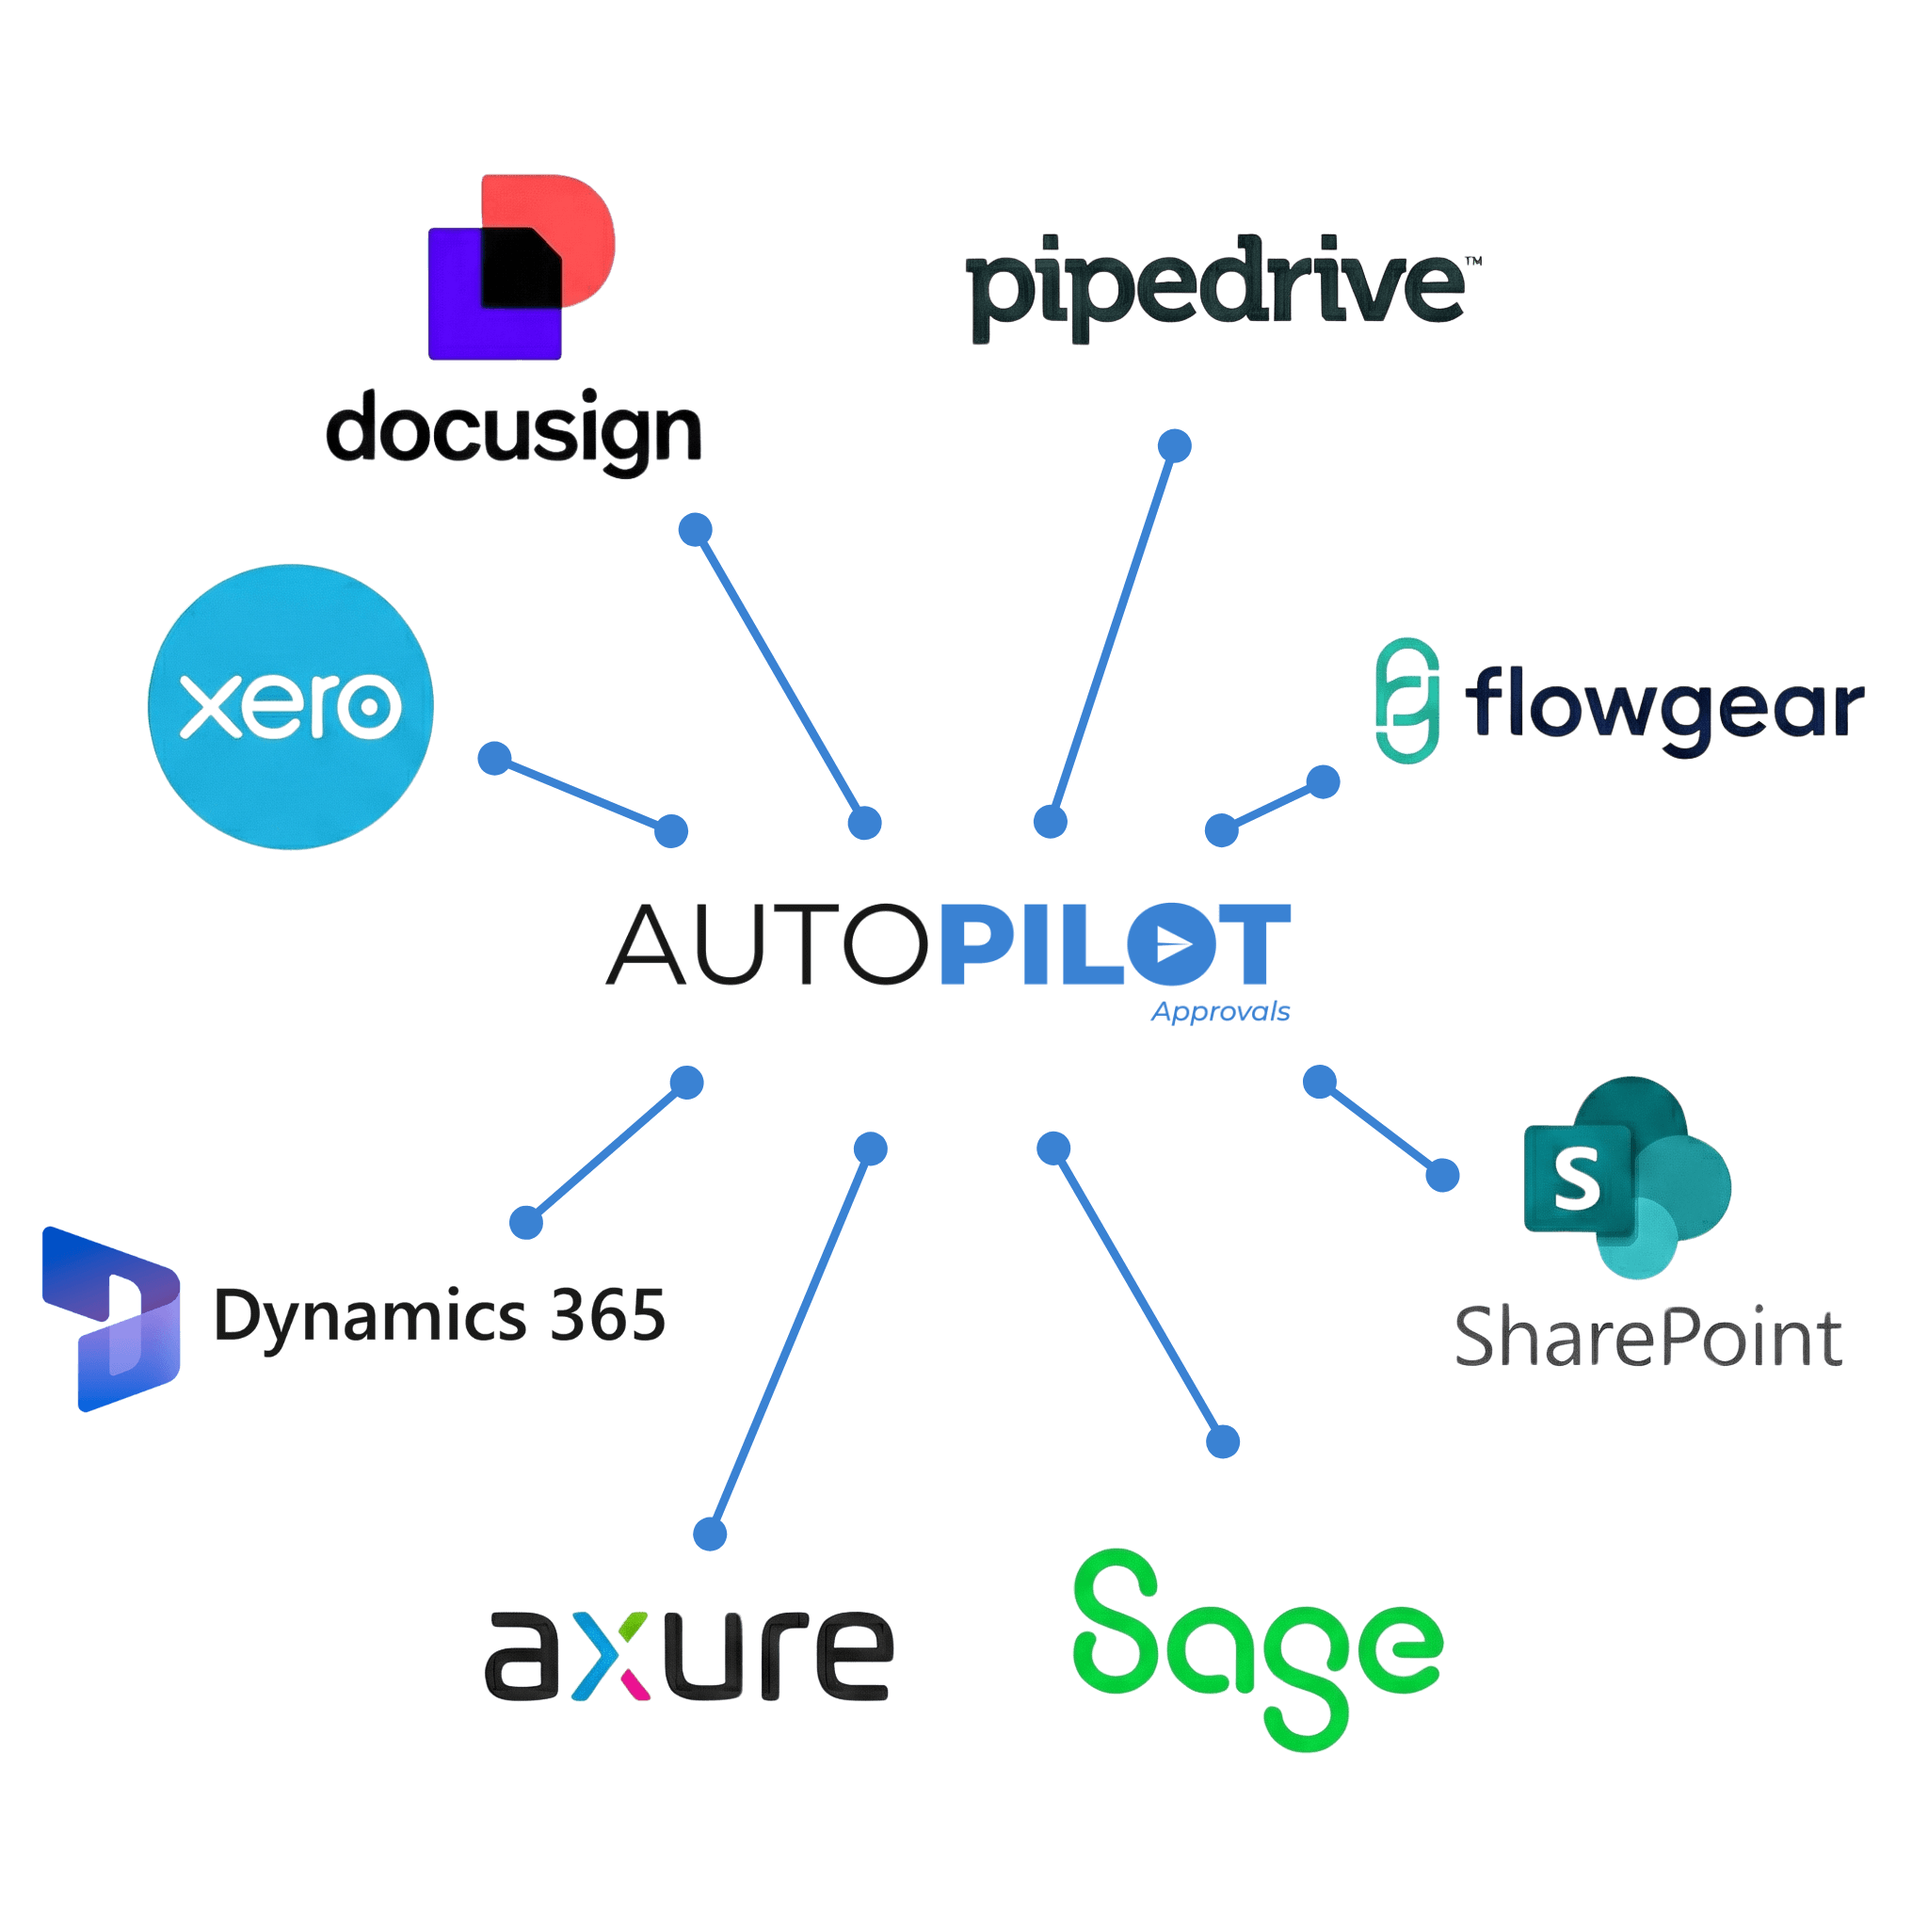
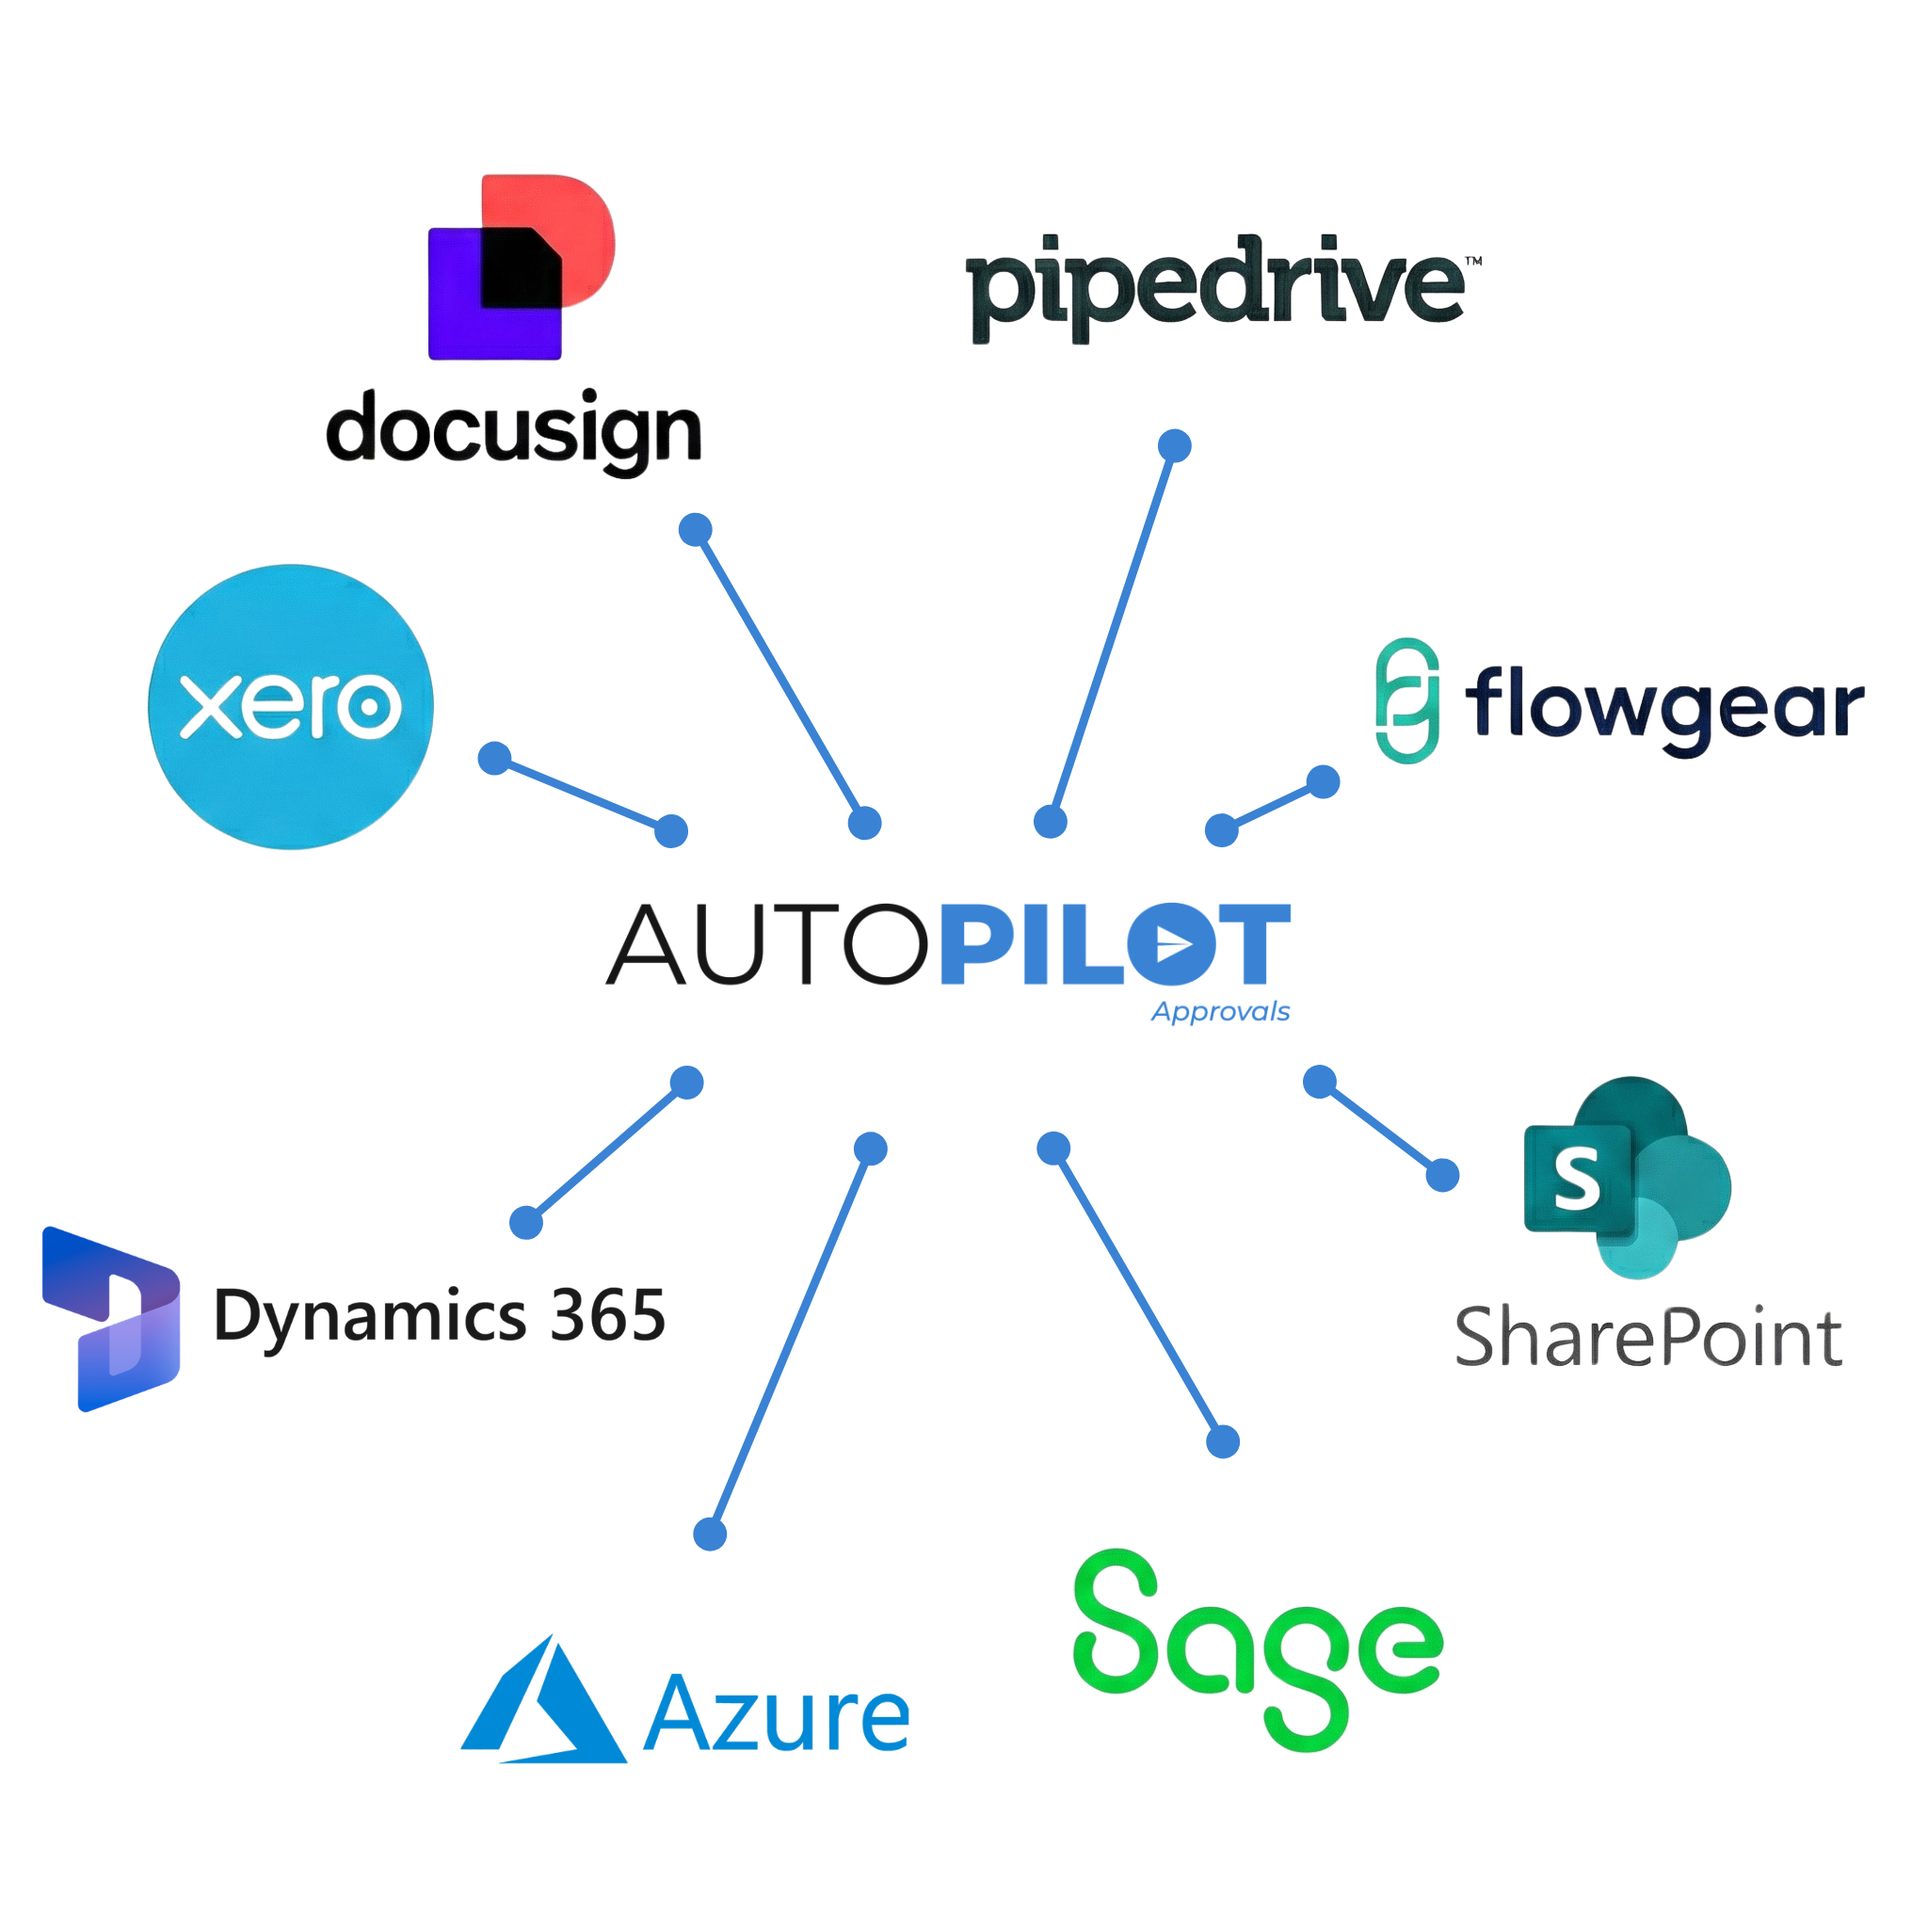
Replace integrations image and fix scaling
Swapped in the new 'Approvals integration.png' asset and removed the
scale-[1.35] / overflow-hidden that was causing logos to clip.

Changed region(s): [[0.2188, 0.8125, 0.4688, 0.9375]]

diff --git a/client/src/pages/home.tsx b/client/src/pages/home.tsx
@@ -224,8 +224,8 @@ export default function Home() {
 
               <div className="pt-2" data-testid="section-microsoft-partner" />
             </div>
-            <div className="flex justify-center overflow-hidden">
-              <img src="/integrations.png" alt="Autopilot Integrations with Teams, Xero, SharePoint and more" className="w-full max-w-2xl object-contain scale-[1.35]" />
+            <div className="flex justify-center">
+              <img src="/integrations.png" alt="Autopilot Integrations with Teams, Xero, SharePoint and more" className="w-full max-w-2xl object-contain" />
             </div>
           </div>
         </div>
